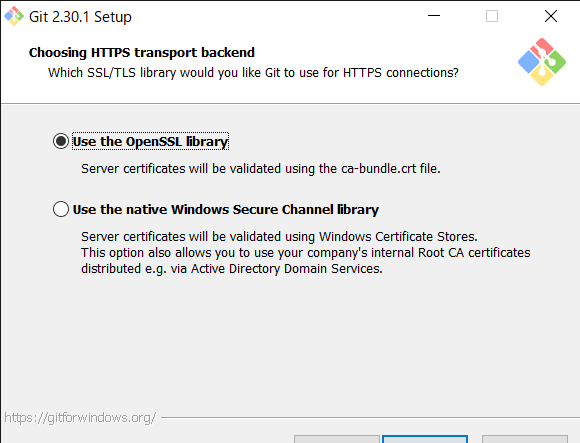
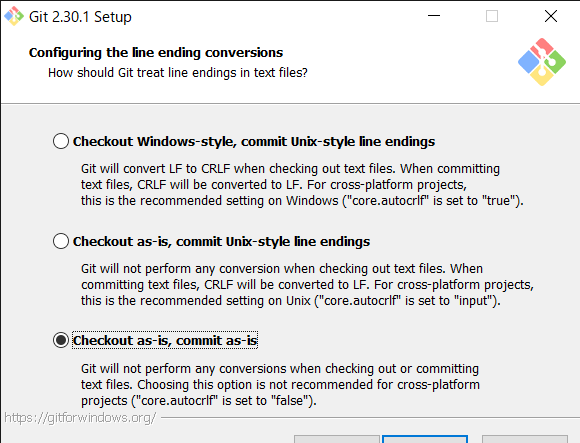
手順と簡単なコメントを記載

diff --git a/Git/README.md b/Git/README.md
@@ -18,35 +18,40 @@
 <br /><img src="./img/02_install/04.png" width="480px"><br />
 - 手順5
 <br /><img src="./img/02_install/05.png" width="480px"><br />
-- 手順6
+- 手順6：デフォルトエディタに Visual Studio Code を選択
 <br /><img src="./img/02_install/06.png" width="480px"><br />
+- 手順7：リポジトリ新規作成時のデフォルトブランチ名をmasterからmainに変更
 <br /><img src="./img/02_install/07.png" width="480px"><br />
-- 手順7
-<br /><img src="./img/02_install/08.png" width="480px"><br />
 - 手順8
-<br /><img src="./img/02_install/09.png" width="480px"><br />
+<br /><img src="./img/02_install/08.png" width="480px"><br />
 - 手順9
+<br /><img src="./img/02_install/09.png" width="480px"><br />
+- 手順10：改行コードの自動変換を行わないよう設定
 <br /><img src="./img/02_install/10.png" width="480px"><br />
-- 手順10
-<br /><img src="./img/02_install/11.png" width="480px"><br />
 - 手順11
-<br /><img src="./img/02_install/12.png" width="480px"><br />
+<br /><img src="./img/02_install/11.png" width="480px"><br />
 - 手順12
-<br /><img src="./img/02_install/13.png" width="480px"><br />
+<br /><img src="./img/02_install/12.png" width="480px"><br />
 - 手順13
-<br /><img src="./img/02_install/14.png" width="480px"><br />
+<br /><img src="./img/02_install/13.png" width="480px"><br />
 - 手順14
-<br /><img src="./img/02_install/15.png" width="480px"><br />
+<br /><img src="./img/02_install/14.png" width="480px"><br />
 - 手順15
-<br /><img src="./img/02_install/16.png" width="480px"><br />
+<br /><img src="./img/02_install/15.png" width="480px"><br />
 - 手順16
-<br /><img src="./img/02_install/17.png" width="480px"><br />
+<br /><img src="./img/02_install/16.png" width="480px"><br />
 - 手順17
-<br /><img src="./img/02_install/18.png" width="480px"><br />
+<br /><img src="./img/02_install/17.png" width="480px"><br />
 
 ## セッティング
 - 手順1
-<br /><img src="./img/03_setting/01.png" width="480px"><br />
+  ```
+  git config --global user.name "ユーザ名"
+  git config --global user.email "e-mailアドレス"
+  git config --global core.quotepath false
+  git config --global core.ignorecase false
+  ```
+  <br /><img src="./img/03_setting/01.png" width="480px"><br />
 - 手順2
 <br /><img src="./img/03_setting/02.png" width="480px"><br />
 <br /><img src="./img/03_setting/03.png" width="480px"><br />
